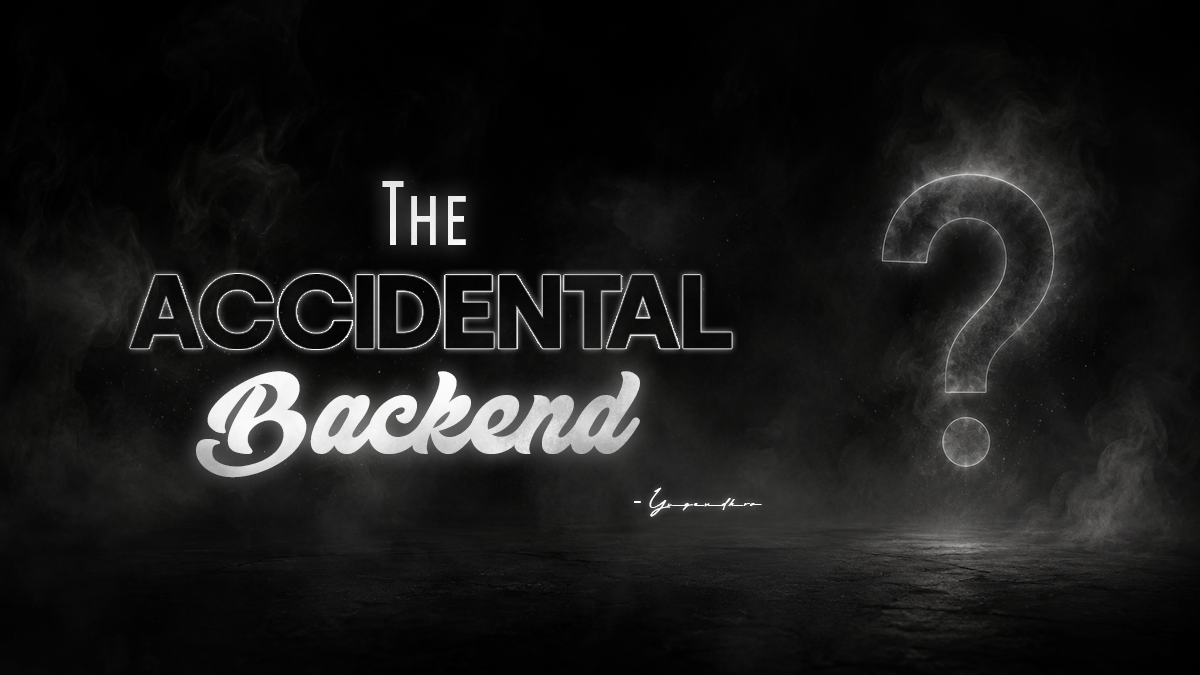
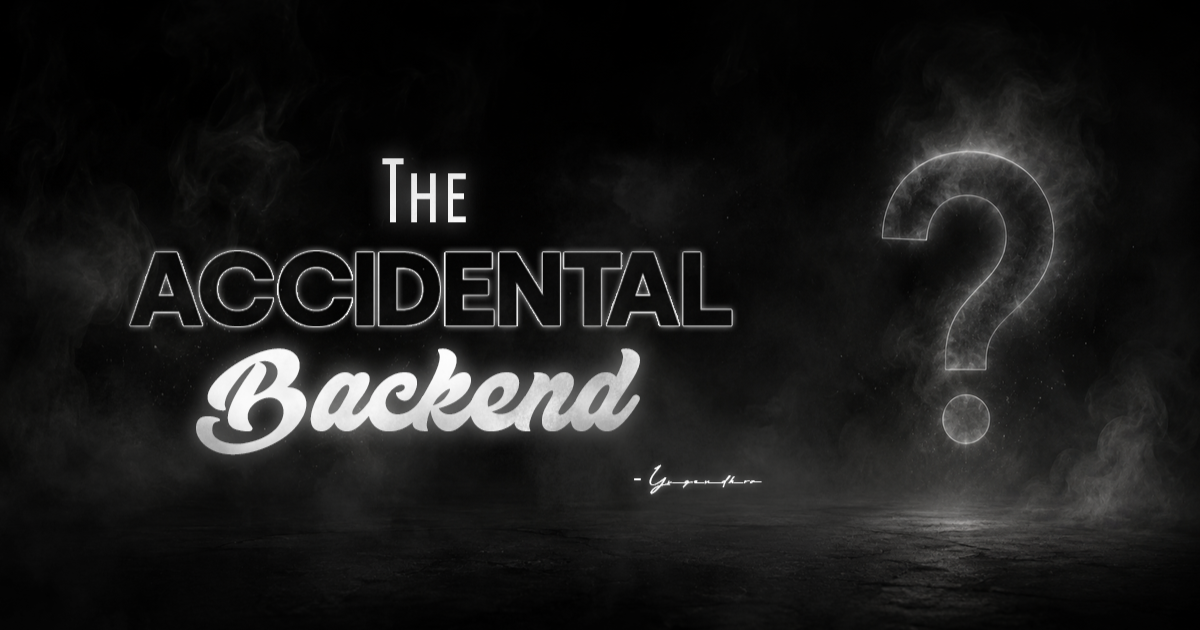
feat: add dynamic OpenGraph metadata to blog pages and implement an OG tag testing sandbox for previewing metadata.

diff --git a/src/app/og/page.tsx b/src/app/og/page.tsx
@@ -1,0 +1,268 @@
+"use client";
+
+import React, { useState, useEffect } from "react";
+import Link from "next/link";
+import { BLOGS } from "@/data/portfolio";
+
+interface MetaTags {
+  title?: string;
+  description?: string;
+  ogTitle?: string;
+  ogDescription?: string;
+  ogImage?: string;
+  twitterCard?: string;
+  twitterTitle?: string;
+  twitterDescription?: string;
+  twitterImage?: string;
+}
+
+export default function OGTestingPage() {
+  const [selectedId, setSelectedId] = useState(BLOGS[0]?.id || "");
+  const [loading, setLoading] = useState(false);
+  const [metaTags, setMetaTags] = useState<MetaTags>({});
+  const [error, setError] = useState<string | null>(null);
+
+  useEffect(() => {
+    if (!selectedId) return;
+
+    const fetchMeta = async () => {
+      setLoading(true);
+      setError(null);
+      try {
+        const res = await fetch(`/blog/${selectedId}`);
+        if (!res.ok) {
+          throw new Error(`Failed to fetch /blog/${selectedId} (Status: ${res.status})`);
+        }
+        const html = await res.text();
+        const parser = new DOMParser();
+        const doc = parser.parseFromString(html, "text/html");
+
+        const getMeta = (query: string) => {
+          const el = doc.querySelector(query);
+          return el ? el.getAttribute("content") || undefined : undefined;
+        };
+
+        const extracted: MetaTags = {
+          title: doc.title || undefined,
+          description: getMeta('meta[name="description"]'),
+          ogTitle: getMeta('meta[property="og:title"]'),
+          ogDescription: getMeta('meta[property="og:description"]'),
+          ogImage: getMeta('meta[property="og:image"]'),
+          twitterCard: getMeta('meta[name="twitter:card"]'),
+          twitterTitle: getMeta('meta[name="twitter:title"]'),
+          twitterDescription: getMeta('meta[name="twitter:description"]'),
+          twitterImage: getMeta('meta[name="twitter:image"]'),
+        };
+
+        setMetaTags(extracted);
+      } catch (err: any) {
+        console.error(err);
+        setError(err.message || "An error occurred while fetching page metadata.");
+      } finally {
+        setLoading(false);
+      }
+    };
+
+    fetchMeta();
+  }, [selectedId]);
+
+  return (
+    <main className="section" style={{ minHeight: "100vh", padding: "4rem 2rem", background: "var(--bg)" }}>
+      <div className="wrap" style={{ maxWidth: "1000px" }}>
+        
+        {/* Navigation back */}
+        <div style={{ marginBottom: "2rem" }}>
+          <Link href="/#blog" style={{ color: "var(--t2)", textDecoration: "none", fontFamily: "var(--font-mono)", fontSize: "0.85rem" }}>
+            ← Back to Portfolio
+          </Link>
+        </div>
+
+        {/* Head */}
+        <div style={{ marginBottom: "3rem" }}>
+          <h1 style={{ fontFamily: "var(--font-sans-alt)", fontSize: "2.2rem", fontWeight: 700, color: "var(--t1)", marginBottom: "0.5rem" }}>
+            OpenGraph Preview Sandbox
+          </h1>
+          <p style={{ color: "var(--t2)", fontSize: "0.95rem" }}>
+            Select a blog post below to scrape and preview its OpenGraph tags and card design in real time on localhost.
+          </p>
+        </div>
+
+        {/* Dropdown Selector */}
+        <div style={{ marginBottom: "2.5rem", display: "flex", gap: "1rem", alignItems: "center" }}>
+          <label htmlFor="blog-select" style={{ fontFamily: "var(--font-mono)", fontSize: "0.85rem", color: "var(--t1)" }}>
+            Select Blog Page:
+          </label>
+          <select
+            id="blog-select"
+            value={selectedId}
+            onChange={(e) => setSelectedId(e.target.value)}
+            style={{
+              padding: "0.5rem 1rem",
+              background: "var(--bg-2)",
+              color: "var(--t1)",
+              border: "1px solid var(--border)",
+              borderRadius: "6px",
+              fontFamily: "var(--font-sans-alt)",
+              fontSize: "0.9rem",
+              cursor: "pointer",
+            }}
+          >
+            {BLOGS.map((b) => (
+              <option key={b.id} value={b.id}>
+                {b.title} ({b.id})
+              </option>
+            ))}
+          </select>
+        </div>
+
+        {loading && (
+          <div style={{ padding: "2rem", color: "var(--t2)", fontFamily: "var(--font-mono)", fontSize: "0.9rem" }}>
+            Scraping local page metadata...
+          </div>
+        )}
+
+        {error && (
+          <div style={{ padding: "1.5rem", background: "rgba(255, 100, 100, 0.05)", border: "1px solid rgba(255, 100, 100, 0.2)", borderRadius: "8px", color: "#ff6b6b", marginBottom: "2rem", fontFamily: "var(--font-mono)", fontSize: "0.85rem" }}>
+            <strong>Error:</strong> {error}
+            <div style={{ marginTop: "0.5rem", fontSize: "0.8rem", color: "var(--t3)" }}>
+              Make sure your Next.js local development server is running on localhost!
+            </div>
+          </div>
+        )}
+
+        {!loading && !error && selectedId && (
+          <div style={{ display: "flex", flexDirection: "column", gap: "3.5rem" }}>
+            
+            {/* Visual Previews Row */}
+            <div style={{ display: "grid", gridTemplateColumns: "1fr", gap: "2rem" }}>
+              
+              {/* WhatsApp Mockup */}
+              <div style={{ border: "1px solid var(--border)", borderRadius: "10px", padding: "1.5rem", background: "var(--bg-2)" }}>
+                <h3 style={{ fontFamily: "var(--font-sans-alt)", fontSize: "1.1rem", color: "var(--t1)", marginBottom: "1rem", borderBottom: "1px solid var(--border)", paddingBottom: "0.5rem" }}>
+                  WhatsApp Share Card Preview
+                </h3>
+                
+                {/* Simulated Chat Window */}
+                <div style={{ background: "#0b141a", padding: "1.5rem", borderRadius: "8px", maxWidth: "450px" }}>
+                  <div style={{ background: "#202c33", padding: "0.75rem", borderRadius: "8px", color: "#e9edef" }}>
+                    {metaTags.ogImage && (
+                      <div style={{ position: "relative", width: "100%", aspectRatio: "1.91/1", overflow: "hidden", borderRadius: "4px", marginBottom: "0.5rem", background: "#111b21" }}>
+                        {/* eslint-disable-next-line @next/next/no-img-element */}
+                        <img
+                          src={metaTags.ogImage}
+                          alt="WhatsApp og:image"
+                          style={{ width: "100%", height: "100%", objectFit: "cover" }}
+                        />
+                      </div>
+                    )}
+                    <div style={{ padding: "0 0.25rem" }}>
+                      <div style={{ fontSize: "0.9rem", fontWeight: 600, marginBottom: "0.2rem", color: "#e9edef" }}>
+                        {metaTags.ogTitle || "No Title Tag Found"}
+                      </div>
+                      <div style={{ fontSize: "0.8rem", color: "#8696a0", marginBottom: "0.3rem", lineHeight: "1.3" }}>
+                        {metaTags.ogDescription || "No Description Tag Found"}
+                      </div>
+                      <div style={{ fontSize: "0.72rem", color: "#8696a0", textTransform: "lowercase", fontFamily: "var(--font-mono)" }}>
+                        yugendhra.me
+                      </div>
+                    </div>
+                  </div>
+                  <div style={{ fontSize: "0.72rem", color: "#8696a0", textAlign: "right", marginTop: "0.25rem" }}>
+                    15:42 ✓
+                  </div>
+                </div>
+              </div>
+
+              {/* Twitter Mockup */}
+              <div style={{ border: "1px solid var(--border)", borderRadius: "10px", padding: "1.5rem", background: "var(--bg-2)" }}>
+                <h3 style={{ fontFamily: "var(--font-sans-alt)", fontSize: "1.1rem", color: "var(--t1)", marginBottom: "1rem", borderBottom: "1px solid var(--border)", paddingBottom: "0.5rem" }}>
+                  Twitter / X Preview Card (Summary Large Image)
+                </h3>
+                
+                {/* Simulated Post Card */}
+                <div style={{ background: "#000000", border: "1px solid #2f3336", borderRadius: "16px", overflow: "hidden", maxWidth: "500px" }}>
+                  {metaTags.twitterImage && (
+                    <div style={{ width: "100%", aspectRatio: "1.91/1", position: "relative", borderBottom: "1px solid #2f3336" }}>
+                      {/* eslint-disable-next-line @next/next/no-img-element */}
+                      <img
+                        src={metaTags.twitterImage}
+                        alt="Twitter Preview"
+                        style={{ width: "100%", height: "100%", objectFit: "cover" }}
+                      />
+                    </div>
+                  )}
+                  <div style={{ padding: "0.75rem 1rem", color: "#e7e9ea", fontFamily: "var(--font-sans-alt)" }}>
+                    <div style={{ fontSize: "0.75rem", color: "#71767b", marginBottom: "0.25rem", textTransform: "lowercase" }}>
+                      yugendhra.me
+                    </div>
+                    <div style={{ fontSize: "0.88rem", fontWeight: 600, marginBottom: "0.25rem" }}>
+                      {metaTags.twitterTitle || metaTags.ogTitle || "No Title Found"}
+                    </div>
+                    <div style={{ fontSize: "0.82rem", color: "#71767b", lineHeight: "1.3" }}>
+                      {metaTags.twitterDescription || metaTags.ogDescription || "No Description Found"}
+                    </div>
+                  </div>
+                </div>
+              </div>
+
+            </div>
+
+            {/* Scraped Metadata Table */}
+            <div style={{ border: "1px solid var(--border)", borderRadius: "10px", padding: "1.5rem", background: "var(--bg-2)" }}>
+              <h3 style={{ fontFamily: "var(--font-sans-alt)", fontSize: "1.1rem", color: "var(--t1)", marginBottom: "1.2rem", borderBottom: "1px solid var(--border)", paddingBottom: "0.5rem" }}>
+                Raw Extracted Metadata Tags
+              </h3>
+              
+              <div style={{ overflowX: "auto" }}>
+                <table style={{ width: "100%", borderCollapse: "collapse", fontFamily: "var(--font-mono)", fontSize: "0.8rem" }}>
+                  <thead>
+                    <tr style={{ borderBottom: "1px solid var(--border)", textAlign: "left" }}>
+                      <th style={{ padding: "0.75rem", color: "var(--t1)" }}>Tag Property / Name</th>
+                      <th style={{ padding: "0.75rem", color: "var(--t1)" }}>Scraped Content Value</th>
+                    </tr>
+                  </thead>
+                  <tbody>
+                    <tr style={{ borderBottom: "1px solid rgba(255,255,255,0.05)" }}>
+                      <td style={{ padding: "0.75rem", color: "var(--accent)" }}>og:title</td>
+                      <td style={{ padding: "0.75rem", color: "var(--t2)" }}>{metaTags.ogTitle || "—"}</td>
+                    </tr>
+                    <tr style={{ borderBottom: "1px solid rgba(255,255,255,0.05)" }}>
+                      <td style={{ padding: "0.75rem", color: "var(--accent)" }}>og:description</td>
+                      <td style={{ padding: "0.75rem", color: "var(--t2)" }}>{metaTags.ogDescription || "—"}</td>
+                    </tr>
+                    <tr style={{ borderBottom: "1px solid rgba(255,255,255,0.05)" }}>
+                      <td style={{ padding: "0.75rem", color: "var(--accent)" }}>og:image</td>
+                      <td style={{ padding: "0.75rem", color: "var(--t2)", wordBreak: "break-all" }}>{metaTags.ogImage || "—"}</td>
+                    </tr>
+                    <tr style={{ borderBottom: "1px solid rgba(255,255,255,0.05)" }}>
+                      <td style={{ padding: "0.75rem", color: "var(--accent)" }}>twitter:card</td>
+                      <td style={{ padding: "0.75rem", color: "var(--t2)" }}>{metaTags.twitterCard || "—"}</td>
+                    </tr>
+                    <tr style={{ borderBottom: "1px solid rgba(255,255,255,0.05)" }}>
+                      <td style={{ padding: "0.75rem", color: "var(--accent)" }}>twitter:title</td>
+                      <td style={{ padding: "0.75rem", color: "var(--t2)" }}>{metaTags.twitterTitle || "—"}</td>
+                    </tr>
+                    <tr style={{ borderBottom: "1px solid rgba(255,255,255,0.05)" }}>
+                      <td style={{ padding: "0.75rem", color: "var(--accent)" }}>twitter:image</td>
+                      <td style={{ padding: "0.75rem", color: "var(--t2)", wordBreak: "break-all" }}>{metaTags.twitterImage || "—"}</td>
+                    </tr>
+                    <tr style={{ borderBottom: "1px solid rgba(255,255,255,0.05)" }}>
+                      <td style={{ padding: "0.75rem", color: "var(--accent)" }}>title (document)</td>
+                      <td style={{ padding: "0.75rem", color: "var(--t2)" }}>{metaTags.title || "—"}</td>
+                    </tr>
+                    <tr>
+                      <td style={{ padding: "0.75rem", color: "var(--accent)" }}>description</td>
+                      <td style={{ padding: "0.75rem", color: "var(--t2)" }}>{metaTags.description || "—"}</td>
+                    </tr>
+                  </tbody>
+                </table>
+              </div>
+            </div>
+
+          </div>
+        )}
+
+      </div>
+    </main>
+  );
+}

diff --git a/src/app/blog/[id]/page.tsx b/src/app/blog/[id]/page.tsx
@@ -33,8 +33,6 @@ export async function generateMetadata({ params }: PageProps): Promise<Metadata>
       images: [
         {
           url: imageUrl,
-          width: 1200,
-          height: 630,
           alt: blog.title,
         },
       ],
